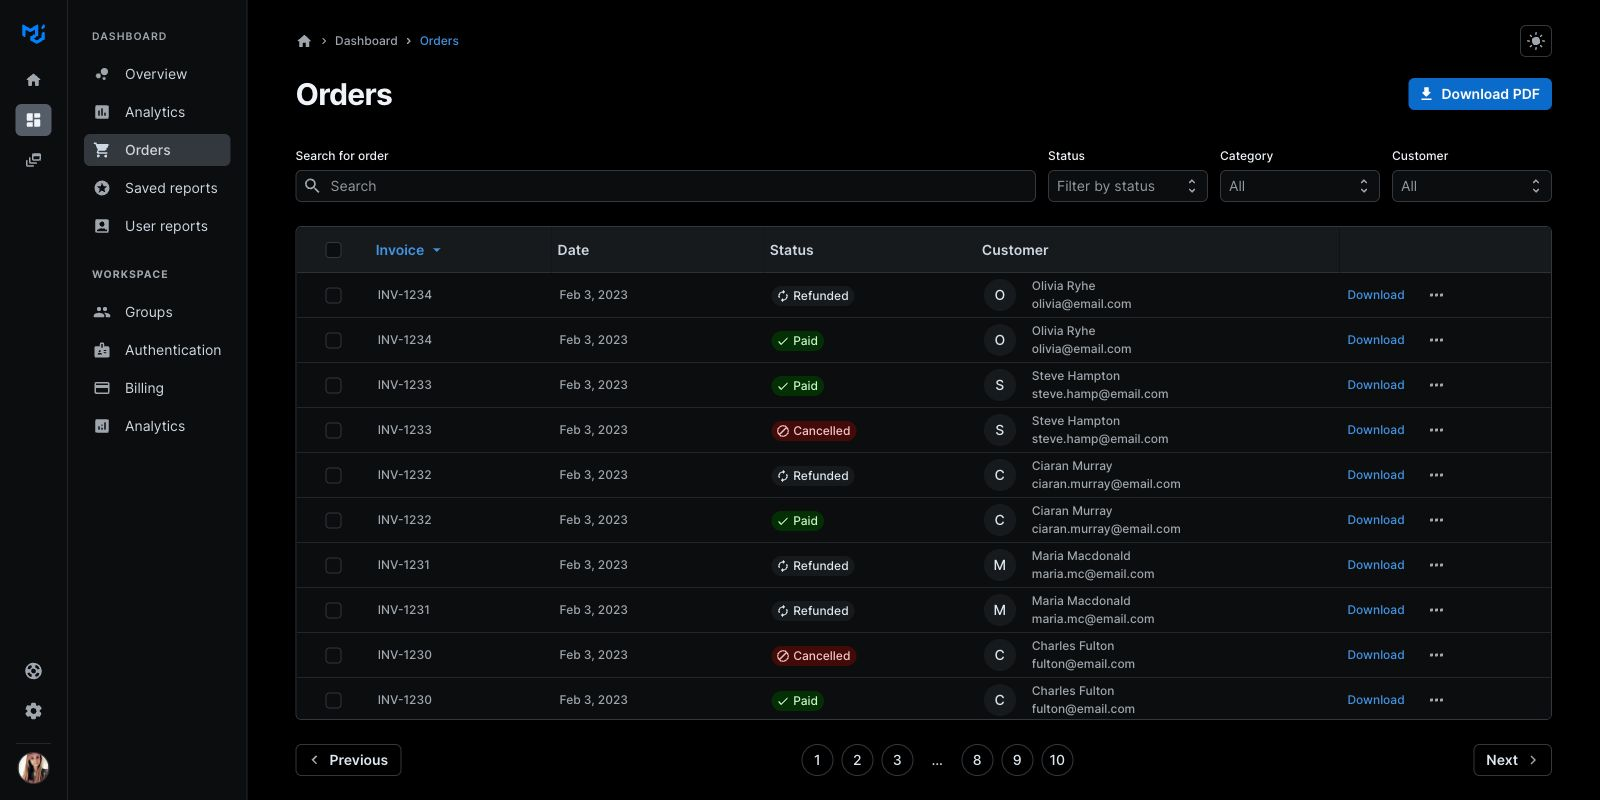
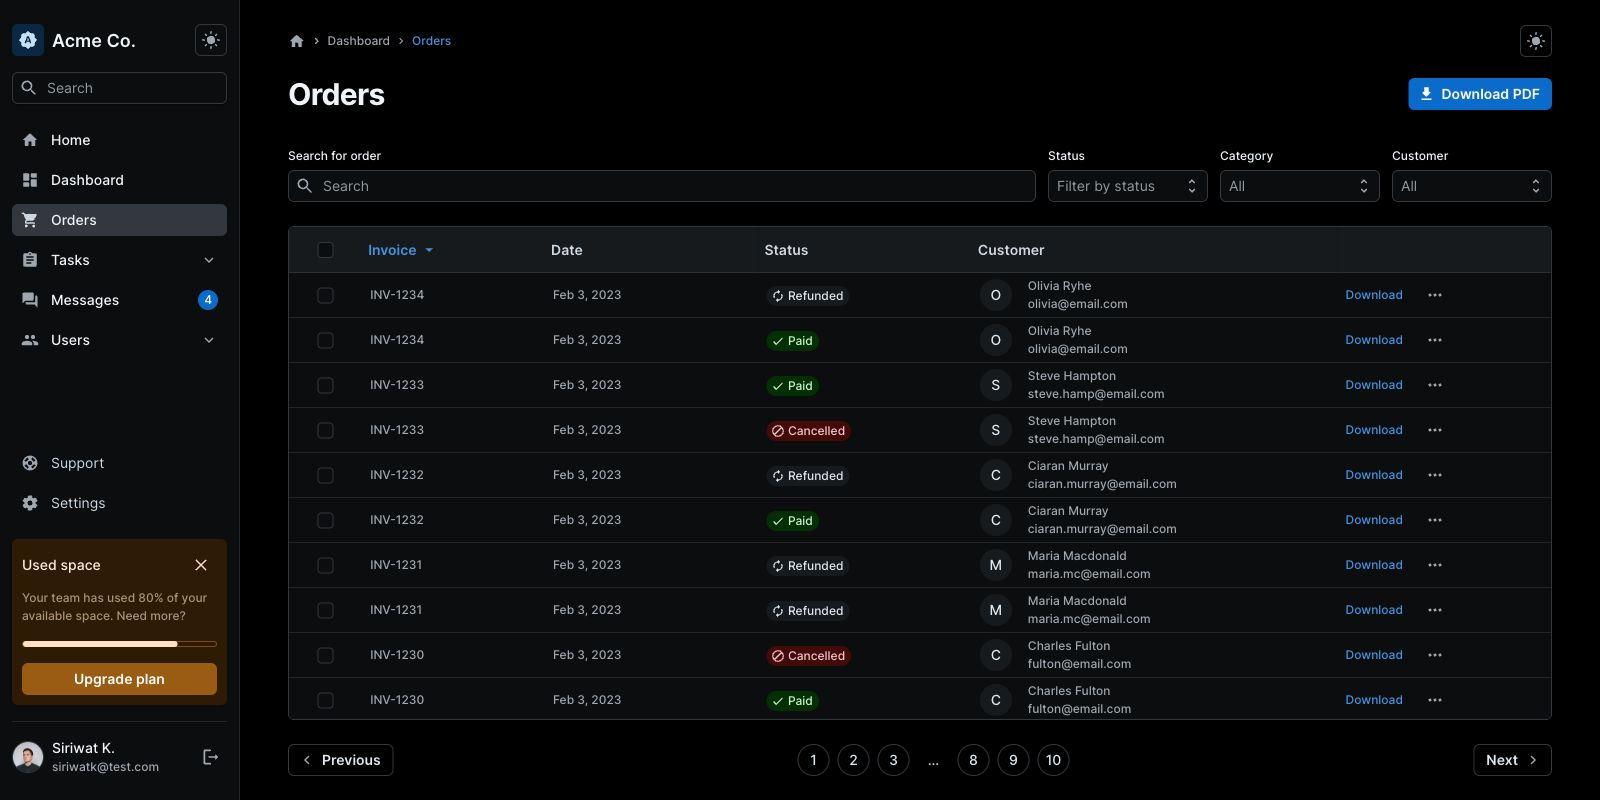
[joy-ui][Templates] Update and standardize Sidemenus (#39271)

diff --git a/docs/data/joy/getting-started/templates/messages/components/Sidebar.tsx b/docs/data/joy/getting-started/templates/messages/components/Sidebar.tsx
@@ -19,7 +19,7 @@ import Stack from '@mui/joy/Stack';
 import SearchRoundedIcon from '@mui/icons-material/SearchRounded';
 import HomeRoundedIcon from '@mui/icons-material/HomeRounded';
 import DashboardRoundedIcon from '@mui/icons-material/DashboardRounded';
-import CollectionsBookmarkRoundedIcon from '@mui/icons-material/CollectionsBookmarkRounded';
+import ShoppingCartRoundedIcon from '@mui/icons-material/ShoppingCartRounded';
 import AssignmentRoundedIcon from '@mui/icons-material/AssignmentRounded';
 import QuestionAnswerRoundedIcon from '@mui/icons-material/QuestionAnswerRounded';
 import GroupRoundedIcon from '@mui/icons-material/GroupRounded';
@@ -27,7 +27,7 @@ import SupportRoundedIcon from '@mui/icons-material/SupportRounded';
 import SettingsRoundedIcon from '@mui/icons-material/SettingsRounded';
 import CloseRoundedIcon from '@mui/icons-material/CloseRounded';
 import LogoutRoundedIcon from '@mui/icons-material/LogoutRounded';
-import BadgeRoundedIcon from '@mui/icons-material/BadgeRounded';
+import BrightnessAutoRoundedIcon from '@mui/icons-material/BrightnessAutoRounded';
 import KeyboardArrowDownIcon from '@mui/icons-material/KeyboardArrowDown';
 
 import ColorSchemeToggle from './ColorSchemeToggle';
@@ -83,8 +83,7 @@ export default function Sidebar() {
         height: '100dvh',
         width: 'var(--Sidebar-width)',
         top: 0,
-        p: 1.5,
-        py: 2,
+        p: 2,
         flexShrink: 0,
         display: 'flex',
         flexDirection: 'column',
@@ -124,9 +123,9 @@ export default function Sidebar() {
       />
       <Box sx={{ display: 'flex', gap: 1, alignItems: 'center' }}>
         <IconButton variant="soft" color="primary" size="sm">
-          <BadgeRoundedIcon />
+          <BrightnessAutoRoundedIcon />
         </IconButton>
-        <Typography level="title-lg">Profiles</Typography>
+        <Typography level="title-lg">Acme Co.</Typography>
         <ColorSchemeToggle sx={{ ml: 'auto' }} />
       </Box>
       <Input size="sm" startDecorator={<SearchRoundedIcon />} placeholder="Search" />
@@ -169,10 +168,14 @@ export default function Sidebar() {
           </ListItem>
 
           <ListItem>
-            <ListItemButton>
-              <CollectionsBookmarkRoundedIcon />
+            <ListItemButton
+              role="menuitem"
+              component="a"
+              href="/joy-ui/getting-started/templates/order-dashboard/"
+            >
+              <ShoppingCartRoundedIcon />
               <ListItemContent>
-                <Typography level="title-sm">Projects</Typography>
+                <Typography level="title-sm">Orders</Typography>
               </ListItemContent>
             </ListItemButton>
           </ListItem>

diff --git a/docs/data/joy/getting-started/templates/order-dashboard/components/Sidebar.tsx b/docs/data/joy/getting-started/templates/order-dashboard/components/Sidebar.tsx
@@ -168,11 +168,7 @@ export default function Sidebar() {
           </ListItem>
 
           <ListItem>
-            <ListItemButton
-              role="menuitem"
-              component="a"
-              href="/joy-ui/getting-started/templates/order-dashboard/"
-            >
+            <ListItemButton selected>
               <ShoppingCartRoundedIcon />
               <ListItemContent>
                 <Typography level="title-sm">Orders</Typography>
@@ -229,7 +225,6 @@ export default function Sidebar() {
 
           <ListItem nested>
             <Toggler
-              defaultExpanded
               renderToggle={({ open, setOpen }) => (
                 <ListItemButton onClick={() => setOpen(!open)}>
                   <GroupRoundedIcon />
@@ -244,7 +239,13 @@ export default function Sidebar() {
             >
               <List sx={{ gap: 0.5 }}>
                 <ListItem sx={{ mt: 0.5 }}>
-                  <ListItemButton selected>My profile</ListItemButton>
+                  <ListItemButton
+                    role="menuitem"
+                    component="a"
+                    href="/joy-ui/getting-started/templates/profile-dashboard/"
+                  >
+                    My profile
+                  </ListItemButton>
                 </ListItem>
                 <ListItem>
                   <ListItemButton>Create a new user</ListItemButton>

diff --git a/docs/data/joy/getting-started/templates/order-dashboard/App.tsx b/docs/data/joy/getting-started/templates/order-dashboard/App.tsx
@@ -12,12 +12,10 @@ import ChevronRightRoundedIcon from '@mui/icons-material/ChevronRightRounded';
 import DownloadRoundedIcon from '@mui/icons-material/DownloadRounded';
 
 import useScript from './useScript';
-import FirstSidebar from './components/FirstSidebar';
-import SecondSidebar from './components/SecondSidebar';
+import Sidebar from './components/Sidebar';
 import OrderTable from './components/OrderTable';
 import OrderList from './components/OrderList';
 import Header from './components/Header';
-import ColorSchemeToggle from './components/ColorSchemeToggle';
 
 const useEnhancedEffect =
   typeof window !== 'undefined' ? React.useLayoutEffect : React.useEffect;
@@ -39,8 +37,7 @@ export default function JoyOrderDashboardTemplate() {
       <CssBaseline />
       <Box sx={{ display: 'flex', minHeight: '100dvh' }}>
         <Header />
-        <FirstSidebar />
-        <SecondSidebar />
+        <Sidebar />
         <Box
           component="main"
           className="MainContent"
@@ -95,9 +92,6 @@ export default function JoyOrderDashboardTemplate() {
                 Orders
               </Typography>
             </Breadcrumbs>
-            <ColorSchemeToggle
-              sx={{ ml: 'auto', display: { xs: 'none', md: 'inline-flex' } }}
-            />
           </Box>
           <Box
             sx={{

diff --git a/docs/data/joy/getting-started/templates/order-dashboard/components/Header.tsx b/docs/data/joy/getting-started/templates/order-dashboard/components/Header.tsx
@@ -4,7 +4,6 @@ import Sheet from '@mui/joy/Sheet';
 import IconButton from '@mui/joy/IconButton';
 import MenuIcon from '@mui/icons-material/Menu';
 
-import ColorSchemeToggle from './ColorSchemeToggle';
 import { toggleSidebar } from '../utils';
 
 export default function Header() {
@@ -44,7 +43,6 @@ export default function Header() {
       >
         <MenuIcon />
       </IconButton>
-      <ColorSchemeToggle id={undefined} />
     </Sheet>
   );
 }
